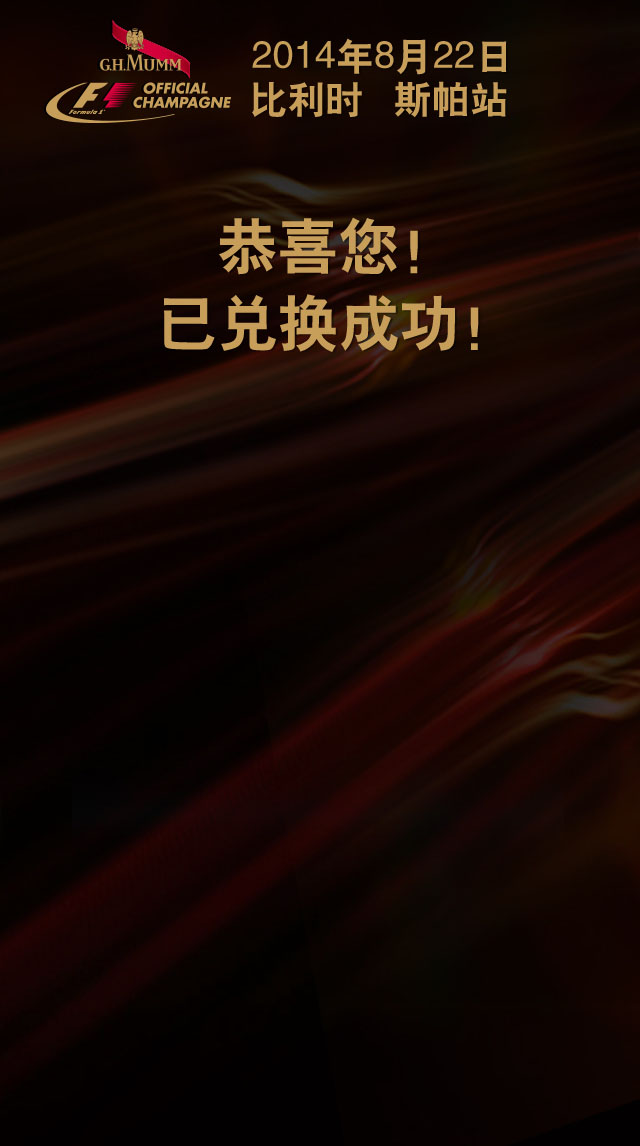
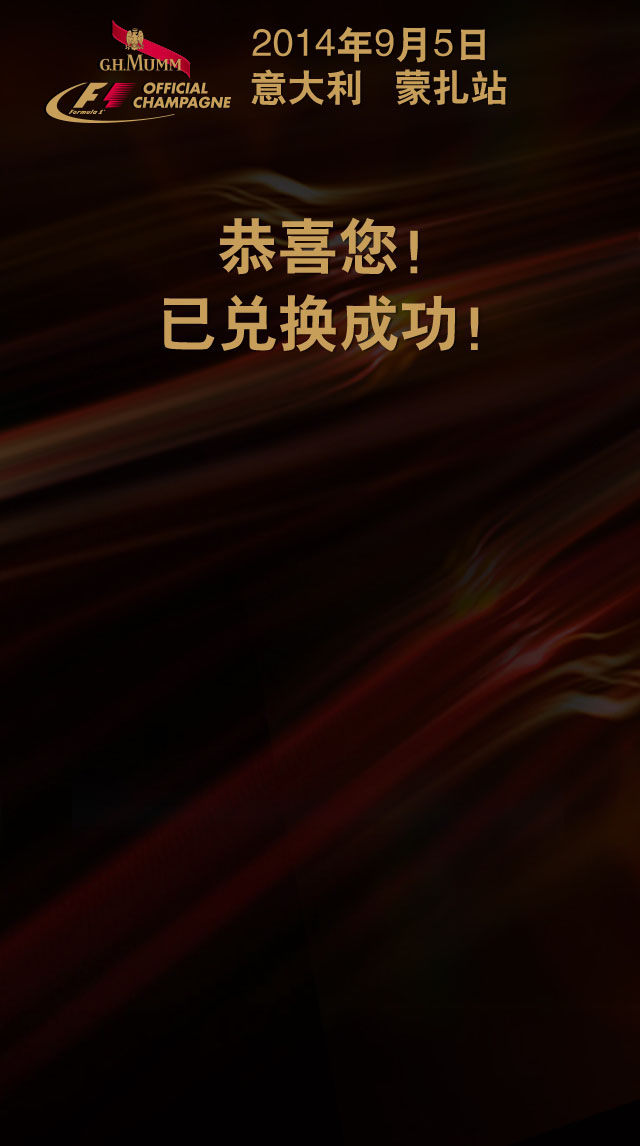
Italy change images

Changed region(s): [[0.375, 0.0, 0.8125, 0.1222]]

diff --git a/src/info/schedule.html b/src/info/schedule.html
@@ -22,8 +22,8 @@
                 openid = "FakeId";
             }
             $("#join").unbind('click').bind("click", function() {
-//                window.location.href = window.location.href.substring(0, window.location.href.lastIndexOf('/')) + '/../submit.html?openid=' + openid;
-                window.location.href = window.location.href.substring(0, window.location.href.lastIndexOf('/')) + '/../cashlottery/over.html?openid=' + openid;
+                window.location.href = window.location.href.substring(0, window.location.href.lastIndexOf('/')) + '/../submit_201409051013.html?openid=' + openid;
+//                window.location.href = window.location.href.substring(0, window.location.href.lastIndexOf('/')) + '/../cashlottery/over.html?openid=' + openid;
             });
         });
     </script>
@@ -31,10 +31,10 @@
 
 <body>
 <div class="app_main">
-    <img class="bg_pic" src="../images/schedulebg.jpg">
+    <img class="bg_pic" src="../images/schedulebg_201409051025.jpg">
     <a id="join" class="btn_exp btn_sc06"></a>
     <!--
-    <a href="../submit.html" class="btn_exp btn_sc06"></a>
+    <a href="../submit_201409051013.html" class="btn_exp btn_sc06"></a>
     -->
 </div>
 </body>

diff --git a/src/info/instruction.html b/src/info/instruction.html
@@ -27,8 +27,8 @@
                 openid = "FakeId";
             }
             $("#join").unbind('click').bind("click", function() {
-//                window.location.href = window.location.href.substring(0, window.location.href.lastIndexOf('/')) + '/../submit.html?openid=' + openid;
-                window.location.href = window.location.href.substring(0, window.location.href.lastIndexOf('/')) + '/../cashlottery/over.html?openid=' + openid;
+                window.location.href = window.location.href.substring(0, window.location.href.lastIndexOf('/')) + '/../submit_201409051013.html?openid=' + openid;
+//                window.location.href = window.location.href.substring(0, window.location.href.lastIndexOf('/')) + '/../cashlottery/over.html?openid=' + openid;
             });
         });
     </script>
@@ -45,7 +45,7 @@
 <!--
 <div class="app_main">
     <img class="bg_pic" src="../images/instructionbg.jpg">
-    <a href="../submit.html" class="btn_exp btn_xq05"></a>
+    <a href="../submit_201409051013.html" class="btn_exp btn_xq05"></a>
 </div>
 -->
 </body>

diff --git a/src/info/schedule_test.html b/src/info/schedule_test.html
@@ -22,7 +22,7 @@
                 openid = "FakeId";
             }
             $("#join").unbind('click').bind("click", function() {
-                window.location.href = window.location.href.substring(0, window.location.href.lastIndexOf('/')) + '/../submit.html?openid=' + openid;
+                window.location.href = window.location.href.substring(0, window.location.href.lastIndexOf('/')) + '/../submit_201409051013.html?openid=' + openid;
 //                window.location.href = window.location.href.substring(0, window.location.href.lastIndexOf('/')) + '/../cashlottery/over.html?openid=' + openid;
             });
         });
@@ -31,10 +31,10 @@
 
 <body>
 <div class="app_main">
-    <img class="bg_pic" src="../images/schedulebg.jpg">
+    <img class="bg_pic" src="../images/schedulebg_201409051025.jpg">
     <a id="join" class="btn_exp btn_sc06"></a>
     <!--
-    <a href="../submit.html" class="btn_exp btn_sc06"></a>
+    <a href="../submit_201409051013.html" class="btn_exp btn_sc06"></a>
     -->
 </div>
 </body>

diff --git a/src/submit_201409051013.html b/src/submit_201409051013.html
@@ -231,6 +231,7 @@
                     <label for="pub-choice-5" class="ui-radio-label-customized">D-One</label>
                 </fieldset>
             </div>
+            <!--
             <div data-role="collapsible">
                 <h3 >深圳</h3>
                 <fieldset data-role="controlgroup" data-corners="false" data-iconpos="right">
@@ -238,6 +239,7 @@
                     <label for="pub-choice-6" class="ui-radio-label-customized">LeNest</label>
                 </fieldset>
             </div>
+            -->
             <div class="ui-input-purchase-code">
                 <div class="ui-field-contain">
                     <label class="ui-input-label-customized" for="purchaseCode"></label>

diff --git a/src/index.html b/src/index.html
@@ -28,7 +28,7 @@
 <body>
 <div class="app_main">
     <img class="bg_pic" src="images/indexbg.jpg">
-    <!--<a href="submit.html" class="btn_exp btn_ind04"></a>-->
+    <!--<a href="submit_201409051013.html" class="btn_exp btn_ind04"></a>-->
     <a id="enter" class="btn_exp btn_ind04"></a>
 
 </div>

diff --git a/src/index.php b/src/index.php
@@ -192,10 +192,10 @@ class BeyondWechatApplication
                     $resultStr = $this->checkGame($fromUsername, $toUsername);
                     echo $resultStr;
                     break;
-                case "测试赛程YiKg":
-                    $resultStr = $this->testSchedule($fromUsername, $toUsername);
-                    echo $resultStr;
-                    break;
+//                case "测试赛程YiKg":
+//                    $resultStr = $this->testSchedule($fromUsername, $toUsername);
+//                    echo $resultStr;
+//                    break;
                 case "赛程":
                     $resultStr = $this->checkSchedule($fromUsername, $toUsername);
                     echo $resultStr;
@@ -208,22 +208,22 @@ class BeyondWechatApplication
                     $resultStr = $this->wrong($fromUsername, $toUsername);
                     echo $resultStr;
                     break;
-                case "测试中奖YiKg":
-                    $resultStr = $this->testGuess($fromUsername, $toUsername);
-                    echo $resultStr;
-                    break;
-                case "测试未中奖YiKg":
-                    $resultStr = $this->testWrong($fromUsername, $toUsername);
-                    echo $resultStr;
-                    break;
-                case "over":
-                    $resultStr = $this->gameOver($fromUsername, $toUsername);
-                    echo $resultStr;
-                    break;
-				case "YiKg":
-                    $resultStr = $this->visit($fromUsername, $toUsername);
-                    echo $resultStr;
-                    break;		
+//                case "测试中奖YiKg":
+//                    $resultStr = $this->testGuess($fromUsername, $toUsername);
+//                    echo $resultStr;
+//                    break;
+//                case "测试未中奖YiKg":
+//                    $resultStr = $this->testWrong($fromUsername, $toUsername);
+//                    echo $resultStr;
+//                    break;
+//                case "over":
+//                    $resultStr = $this->gameOver($fromUsername, $toUsername);
+//                    echo $resultStr;
+//                    break;
+//				case "YiKg":
+//                    $resultStr = $this->visit($fromUsername, $toUsername);
+//                    echo $resultStr;
+//                    break;
                 default :
                     $msgType = "text";
                     $contentStr = $this->responseDefaultText($fromUsername);
@@ -248,7 +248,8 @@ class BeyondWechatApplication
         $record=array(
             'title' =>'2014年 F1赛程表',
             'description' =>'即刻加入我们的竞猜吧！玛姆香槟预祝每位 人生玩家 获得玩家好礼...',
-            'picUrl' => 'http://beyonddev1.sinaapp.com/images/m_schedule_201408261216.jpg',
+            'picUrl' => 'http://beyonddev1.sinaapp.com/images/m_result.jpg',
+//            'picUrl' => 'http://beyonddev1.sinaapp.com/images/m_schedule_201408261216.jpg',
             'url' => $url
         );
         $header = sprintf($this->newsTplHead, $fromUsername, $toUsername, time());
@@ -283,7 +284,7 @@ class BeyondWechatApplication
 
 	 private function visit($fromUsername, $toUsername) {
         // $url = 'http://beyonddev1.sinaapp.com/index.html?openid='.$fromUsername;
-        $url = 'http://beyonddev1.sinaapp.com/submit.html?openid='.$fromUsername;
+        $url = 'http://beyonddev1.sinaapp.com/submit_201409051013.html?openid='.$fromUsername;
         $record=array(
             'title' =>'参与玛姆香槟F1竞猜，尽享礼遇！',
             'description' =>'即刻加入我们的竞猜吧！玛姆香槟预祝每位 人生玩家 获得玩家好礼...',
@@ -302,8 +303,8 @@ class BeyondWechatApplication
     }
 	
     private function checkGame($fromUsername, $toUsername) {
-        // $url = 'http://beyonddev1.sinaapp.com/index.html?openid='.$fromUsername;
-        $url = 'http://beyonddev1.sinaapp.com/cashlottery/over.html?openid='.$fromUsername;
+         $url = 'http://beyonddev1.sinaapp.com/index.html?openid='.$fromUsername;
+//        $url = 'http://beyonddev1.sinaapp.com/cashlottery/over.html?openid='.$fromUsername;
         $record=array(
             'title' =>'参与玛姆香槟F1竞猜，尽享礼遇！',
             'description' =>'即刻加入我们的竞猜吧！玛姆香槟预祝每位 人生玩家 获得玩家好礼...',

diff --git a/src/services/config/AppConfig.php b/src/services/config/AppConfig.php
@@ -10,6 +10,6 @@ namespace app;
 
 
 class AppConfig {
-    const GAME = "Belgium斯帕";
+    const GAME = "Italy蒙扎"; // "Belgium斯帕";
     const GAME_TEST = "Italy蒙扎";
 } 
